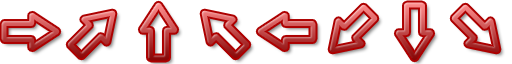
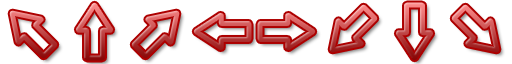
optimized arrow-hud and refactored the pos-calculation into the HUDElement base class where it belongs

Changed region(s): [[0.0, 0.0, 0.625, 1.0]]

diff --git a/Source/FirstParty/AllInOneSolution/AllInOneSolution/Core/ArrowHUD.cpp b/Source/FirstParty/AllInOneSolution/AllInOneSolution/Core/ArrowHUD.cpp
@@ -1,14 +1,16 @@
 #include "ArrowHUD.hpp"
 #include "resources\ResourceManager.hpp"
 
+#include <cmath>
+
 ArrowHUD::ArrowHUD(ResourceManager& resourceManager):
 HUDElement(sf::Vector2f(0.f, 0.f), 0.f),
 m_resourceManager(resourceManager),
 m_outOfView(false)
 {
-    m_arrowTexture.setTexture(*m_resourceManager.getTexture("arrowHUD"));
-    m_arrowTexture.setTextureRect(sf::IntRect(0,0,64,64));
-    m_arrowTexture.setOrigin(m_arrowTexture.getTextureRect().width / 2.f, m_arrowTexture.getTextureRect().height / 2.f);
+    m_arrow.setTexture(*m_resourceManager.getTexture("arrowHUD"));
+    m_arrow.setTextureRect(sf::IntRect(0, 0, ARROW_WIDTH, ARROW_WIDTH));
+    m_arrow.setOrigin(ARROW_WIDTH / 2, ARROW_WIDTH / 2);
 }
 
 void ArrowHUD::update(const DrawParameter& params)
@@ -20,66 +22,101 @@ void ArrowHUD::update(const DrawParameter& params)
     float bottom = screenCenter.y + screenSize.y / 2.f;
     float left = screenCenter.x - screenSize.x / 2.f;
     float right = screenCenter.x + screenSize.x / 2.f;
+    /*
+    // Version of the same check with a loop. Not much shorter, much harder to understand, far less performant
+    m_outOfView = false;
+    float vertical[] = { -FLT_MAX, top, bottom, FLT_MAX };
+    float horizontal[] = { -FLT_MAX, left, right, FLT_MAX };
+    float vpos[] = { top + m_arrowTexture.getTextureRect().height / 2.f,
+        m_position.y, bottom - m_arrowTexture.getTextureRect().height / 2.f };
+    float hpos[] = { left + m_arrowTexture.getTextureRect().width / 2.f,
+        m_position.x, right - m_arrowTexture.getTextureRect().width / 2.f};
+
+    int imgIndex = 0;
+    for(int y=0; y<3; y++)
+        for(int x=0; x<3; x++)
+        {
+            if(x==1 && y==1)
+                continue;
+            if(m_position.x >= horizontal[x] && m_position.x < horizontal[x+1]
+            && m_position.y >= vertical[y] && m_position.y < vertical[y+1])
+            {
+                m_position.x = hpos[x];
+                m_position.y = vpos[y];
+                m_arrowTexture.setTextureRect(sf::IntRect(imgIndex * 64, 0, 64, 64));
+                m_arrowTexture.setPosition(m_position);
+                m_outOfView = true;
+                return;
+            }
+            imgIndex++;
+        }*/
 
     m_outOfView = true;
 
-    if(m_position.x > right && m_position.y < top)
+    sf::Vector2f position = m_ballPos;
+    if(position.y < top)
     {
-        m_position.x = right - m_arrowTexture.getTextureRect().width / 2.f;
-        m_position.y = top + m_arrowTexture.getTextureRect().height / 2.f;
-        m_arrowTexture.setTextureRect(sf::IntRect(64,0,64,64));
+        if(position.x < left)
+        {
+            position.x = left + ARROW_WIDTH / 2.f;
+            position.y = top + ARROW_WIDTH / 2.f;
+            m_arrow.setTextureRect(sf::IntRect(0, 0, ARROW_WIDTH, ARROW_WIDTH));
+        }        
+        else if(position.x > right)
+        {
+            position.x = right - ARROW_WIDTH / 2.f;
+            position.y = top + ARROW_WIDTH / 2.f;
+            m_arrow.setTextureRect(sf::IntRect(2 * ARROW_WIDTH, 0, ARROW_WIDTH, ARROW_WIDTH));
+        }
+        else
+        {
+            position.y = top + ARROW_WIDTH / 2.f;
+            m_arrow.setTextureRect(sf::IntRect(ARROW_WIDTH, 0, ARROW_WIDTH, ARROW_WIDTH));
+        }
     }
-    else if(m_position.x > right && m_position.y > bottom)
+    else if(position.y > bottom)
     {
-        m_position.x = right - m_arrowTexture.getTextureRect().width / 2.f;
-        m_position.y = bottom - m_arrowTexture.getTextureRect().height / 2.f;
-        m_arrowTexture.setTextureRect(sf::IntRect(448,0,64,64));
+        if(position.x < left)
+        {
+            position.x = left + ARROW_WIDTH / 2.f;
+            position.y = bottom - ARROW_WIDTH / 2.f;
+            m_arrow.setTextureRect(sf::IntRect(5 * ARROW_WIDTH, 0, ARROW_WIDTH, ARROW_WIDTH));
+        }
+        else if(position.x > right)
+        {
+            position.x = right - ARROW_WIDTH / 2.f;
+            position.y = bottom - ARROW_WIDTH / 2.f;
+            m_arrow.setTextureRect(sf::IntRect(7 * ARROW_WIDTH, 0, ARROW_WIDTH, ARROW_WIDTH));
+        }
+        else
+        {
+            position.y = bottom - ARROW_WIDTH / 2.f;
+            m_arrow.setTextureRect(sf::IntRect(6 * ARROW_WIDTH, 0, ARROW_WIDTH, ARROW_WIDTH));
+        }
     }
-    else if(m_position.x < left && m_position.y < top)
+    else if(position.x < left)
     {
-        m_position.x = left + m_arrowTexture.getTextureRect().width / 2.f;
-        m_position.y = top + m_arrowTexture.getTextureRect().height / 2.f;
-        m_arrowTexture.setTextureRect(sf::IntRect(192,0,64,64));
+        position.x = left + ARROW_WIDTH / 2.f;
+        m_arrow.setTextureRect(sf::IntRect(3 * ARROW_WIDTH, 0, ARROW_WIDTH, ARROW_WIDTH));
     }
-    else if(m_position.x < left && m_position.y > bottom)
+    else if(position.x > right)
     {
-        m_position.x = left + m_arrowTexture.getTextureRect().width / 2.f;
-        m_position.y = bottom - m_arrowTexture.getTextureRect().height / 2.f;
-        m_arrowTexture.setTextureRect(sf::IntRect(320,0,64,64));
-    }
-    else if(m_position.y > bottom)
-    {
-        m_position.y = bottom - m_arrowTexture.getTextureRect().height / 2.f;
-        m_arrowTexture.setTextureRect(sf::IntRect(384,0,64,64));
-    }
-    else if(m_position.y < top)
-    {
-        m_position.y = top + m_arrowTexture.getTextureRect().height / 2.f;
-        m_arrowTexture.setTextureRect(sf::IntRect(128,0,64,64));
-    }        
-    else if(m_position.x > right)
-    {
-        m_position.x = right - m_arrowTexture.getTextureRect().width / 2.f;
-        m_arrowTexture.setTextureRect(sf::IntRect(0,0,64,64));
-    }
-    else if(m_position.x < left)
-    {
-        m_position.x = left + m_arrowTexture.getTextureRect().width / 2.f;
-        m_arrowTexture.setTextureRect(sf::IntRect(256,0,64,64));
+        position.x = right - ARROW_WIDTH / 2.f;
+        m_arrow.setTextureRect(sf::IntRect(4 * ARROW_WIDTH, 0, ARROW_WIDTH, ARROW_WIDTH));
     }
     else
         m_outOfView = false;
 
-    m_arrowTexture.setPosition(m_position);
+    m_arrow.setPosition(position);
 }
 
 void ArrowHUD::draw(const DrawParameter& params)
 {
     if(m_outOfView)
-        params.getTarget().draw(m_arrowTexture);
+        params.getTarget().draw(m_arrow);
 }
 
-void ArrowHUD::setBallCoords(sf::Vector2f coords)
+void ArrowHUD::setBallCoords(const sf::Vector2f& ballPos)
 {
-    m_position = coords;
+    m_ballPos = coords;
 }

diff --git a/Source/FirstParty/AllInOneSolution/AllInOneSolution/Core/HUDElement.cpp b/Source/FirstParty/AllInOneSolution/AllInOneSolution/Core/HUDElement.cpp
@@ -15,6 +15,25 @@ HUDElement::HUDElement(const sf::Vector2f& position,
                        const float verticalPercentage) :
     m_position(position),
     m_verticalPercentage(verticalPercentage),
-    m_horizontalPercentage(horizontalPercentage)
+    m_horizontalPercentage(horizontalPercentage),
+    m_currentPosition(sf::Vector2f(0, 0))
 {
+}
+
+void HUDElement::update(const DrawParameter& params)
+{
+    sf::Vector2f screenSize = params.getTarget().getView().getSize();
+    sf::Vector2f screenCenter = params.getTarget().getView().getCenter();
+    
+    sf::Vector2f topLeftViewStart = screenCenter - screenSize * 0.5f;
+    sf::Vector2f bottomRightViewEnd = screenCenter + screenSize * 0.5f;
+    sf::Vector2f delta = bottomRightViewEnd - topLeftViewStart;
+
+    m_currentPosition.x =  topLeftViewStart.x + delta.x * m_horizontalPercentage + m_position.x;
+    m_currentPosition.y =  topLeftViewStart.y + delta.y * m_verticalPercentage + m_position.y;
+}
+
+const sf::Vector2f HUDElement::getPosition() const
+{
+    return m_currentPosition;
 }

diff --git a/Source/FirstParty/AllInOneSolution/AllInOneSolution/Core/LabelHUD.cpp b/Source/FirstParty/AllInOneSolution/AllInOneSolution/Core/LabelHUD.cpp
@@ -16,18 +16,8 @@ LabelHUD::LabelHUD(const sf::Vector2f& position,
 
 void LabelHUD::update(const DrawParameter& params)
 {
-    sf::Vector2f screenSize = params.getTarget().getView().getSize();
-    sf::Vector2f screenCenter = params.getTarget().getView().getCenter();
-    
-    sf::Vector2f topLeftViewStart = screenCenter - screenSize * 0.5f;
-    sf::Vector2f bottomRightViewEnd = screenCenter + screenSize * 0.5f;
-    sf::Vector2f delta = bottomRightViewEnd - topLeftViewStart;
-
-    sf::Vector2f position; 
-    position.x =  topLeftViewStart.x + delta.x * m_horizontalPercentage + m_position.x;
-    position.y =  topLeftViewStart.y + delta.y * m_verticalPercentage + m_position.y;
-
-    m_label.setPosition(position);
+    HUDElement::update(params);
+    m_label.setPosition(getPosition());
 }
 
 void LabelHUD::draw(const DrawParameter& params)

diff --git a/Source/FirstParty/AllInOneSolution/AllInOneSolution/Core/HUDElement.hpp b/Source/FirstParty/AllInOneSolution/AllInOneSolution/Core/HUDElement.hpp
@@ -17,9 +17,10 @@ public:
 	static const float Middle;
 	static const float Bottom;
 
-protected:
+private:
 
     sf::Vector2f m_position;
+    sf::Vector2f m_currentPosition;
 
     float m_horizontalPercentage;
 
@@ -35,9 +36,12 @@ public:
     virtual ~HUDElement()
     { }
 
-    virtual void update(const DrawParameter& params) = 0;
+    virtual void update(const DrawParameter& params);
 
     virtual void draw(const DrawParameter& params) = 0;
+
+protected:
+    const sf::Vector2f getPosition() const;
 };
 
 #endif

diff --git a/Source/FirstParty/AllInOneSolution/AllInOneSolution/Core/ArrowHUD.hpp b/Source/FirstParty/AllInOneSolution/AllInOneSolution/Core/ArrowHUD.hpp
@@ -6,10 +6,11 @@
 class ArrowHUD : public HUDElement
 {
 private:
+    static const int ARROW_WIDTH = 64;
 
-    sf::Sprite m_arrowTexture;
-
+    sf::Sprite m_arrow;
     ResourceManager& m_resourceManager;
+    sf::Vector2f m_ballPos;
 
     bool m_outOfView;
 
@@ -21,7 +22,7 @@ public:
 
     ArrowHUD(ResourceManager& resourceManager);
 
-    void setBallCoords(sf::Vector2f coords);
+    void setBallCoords(const sf::Vector2f& ballPos);
 };
 
 #endif /// ARROW_HPP
